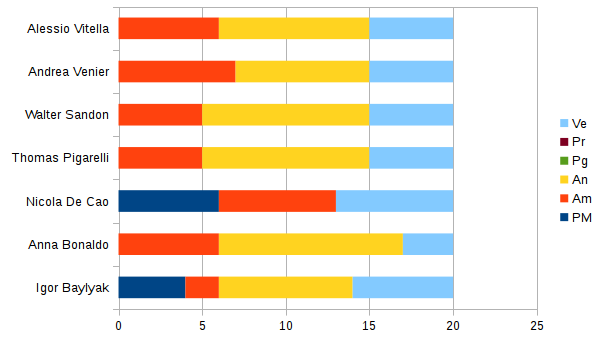
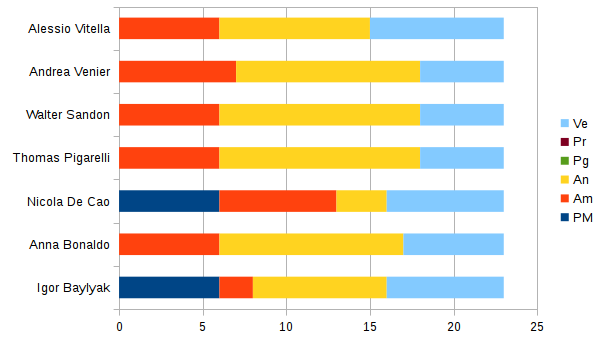
modifica ore analisi PdP

diff --git a/doc/1_RR/esterni/PianoDiProgetto/PianoDiProgetto.tex b/doc/1_RR/esterni/PianoDiProgetto/PianoDiProgetto.tex
@@ -374,7 +374,7 @@ Le sotto attività svolte sono:
 \midrule
 AN1.1 & Stesura & Amministratore & 20 \\
 \midrule
-AN1.2 & Verifica & Verificatore & 7 \\
+AN1.2 & Verifica & Verificatore & 8 \\
 \midrule
 \textbf{AN2} & \textbf{Studio di Fattibilità} & & \\
 \midrule
@@ -384,21 +384,21 @@ AN2.2 & Verifica & Verificatore & 3 \\
 \midrule
 \textbf{AN3} & \textbf{Analisi dei Requisiti} & &  \\
 \midrule
-AN3.1 & Stesura & Analista & 40 \\
+AN3.1 & Stesura & Analista & 48 \\
 \midrule
-AN3.2 & Verifica & Verificatore & 14 \\
+AN3.2 & Verifica & Verificatore & 16 \\
 \midrule
 \textbf{AN4} & \textbf{Piano di Progetto} & &  \\
 \midrule
-AN4.1 & Stesura & Project Manager \newline Amministratore & 6 \newline 10 \\
+AN4.1 & Stesura & Project Manager \newline Amministratore & 6 \newline 12 \\
 \midrule
-AN4.2 & Verifica & Verificatore & 5 \\
+AN4.2 & Verifica & Verificatore & 6 \\
 \midrule
 \textbf{AN5} & \textbf{Piano di Qualifica} & & \\
 \midrule
-AN5.1 & Stesura & Project Manager \newline Amministratore \newline Analista & 4 \newline 8 \newline 8 \\
+AN5.1 & Stesura & Project Manager \newline Amministratore \newline Analista & 6 \newline 8 \newline 10 \\
 \midrule
-AN5.2 & Verifica & Verificatore & 7 \\
+AN5.2 & Verifica & Verificatore & 10 \\
 \bottomrule
 \end{tabular}
 \caption{Ripartizione delle risorse - Analisi}
@@ -425,19 +425,19 @@ AN5.2 & Verifica & Verificatore & 7 \\
 \textbf{Membro}	&	\textbf{Re}	&	\textbf{Am}	& \textbf{An} & \textbf{Pg} & \textbf{Pr} & \textbf{Ve} & \textbf{Totale}\\
 \midrule
 \midrule
-\IB & 4 & 2 & 8 &  &  & 6 & 20 \\
+\IB & 6 & 2 & 8 &  &  & 7 & 23 \\
 \midrule
-\AB &  & 6 & 11 &  &  & 3 & 20 \\
+\AB &  & 6 & 11 &  &  & 6 & 23 \\
 \midrule
-\NDC & 6 & 7 &  &  &  & 7 & 20 \\
+\NDC & 6 & 7 & 3 &  &  & 7 & 23 \\
 \midrule
-\TP &  & 5 & 10 & &  & 5 & 20 \\
+\TP &  & 6 & 12 & &  & 5 & 23 \\
 \midrule
-\WS &  & 5 & 10 & &  & 5 & 20 \\
+\WS &  & 6 & 12 & &  & 5 & 23 \\
 \midrule
-\AVE &  & 7 & 8 &  &  & 5 & 20 \\
+\AVE &  & 7 & 11 &  &  & 5 & 23 \\
 \midrule
-\AVI &  & 6 & 9 &  &  & 5 & 20 \\
+\AVI &  & 6 & 9 &  &  & 8 & 23 \\
 \bottomrule
 \end{tabular}
 \caption{Rotazione dei ruoli - Analisi}
@@ -462,19 +462,19 @@ AN5.2 & Verifica & Verificatore & 7 \\
 \textbf{Ruolo}	& \textbf{Ore} & \textbf{Costo (\euro/ora)}	& \textbf{Costo (\euro)} \\
 \midrule
 \midrule
-Project Manager & 10 & 30 & 300\\
+Project Manager & 12 & 30 & 360\\
 \midrule
-Amministratore & 38 & 20 & 760\\ 
+Amministratore & 40 & 20 & 800\\ 
 \midrule
-Analista & 56 & 25 & 1.400\\ 
+Analista & 66 & 25 & 1.650\\ 
 \midrule
 Progettista & 0 & 22 & 0\\ 
 \midrule
 Programmatore & 0 & 15 & 0\\ 
 \midrule
-Verificatore & 36 & 15 & 540\\ 
+Verificatore & 43 & 15 & 645\\ 
 \midrule
-\textbf{Totale} & \textbf{140} &  & \textbf{3.000}\\
+\textbf{Totale} & \textbf{140} &  & \textbf{3.455}\\
 \bottomrule
 \end{tabular}
 \caption{Ripartizione oraria dei ruoli - Analisi}
